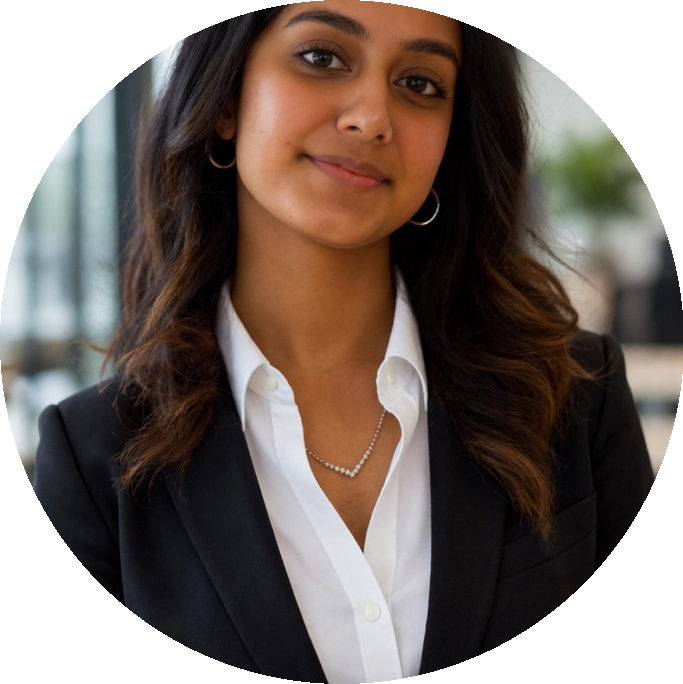
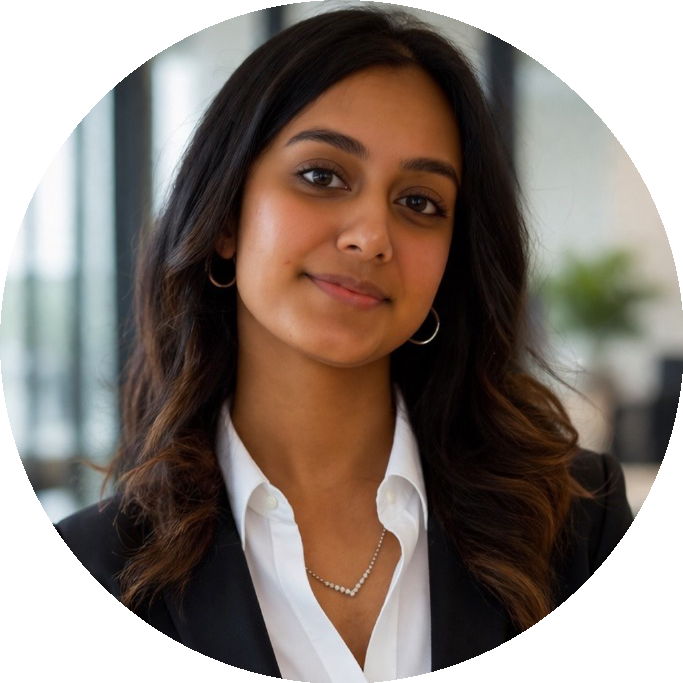
adjust profile photo crop

diff --git a/crop_image.py b/crop_image.py
@@ -9,9 +9,10 @@ def crop_to_circle(input_path, output_path):
     min_dim = min(width, height)
     
     left = (width - min_dim) / 2
-    top = (height - min_dim) / 2
-    right = (width + min_dim) / 2
-    bottom = (height + min_dim) / 2
+    # Shift the crop upwards to get more of the upper face
+    top = (height - min_dim) * 0.15
+    right = left + min_dim
+    bottom = top + min_dim
     
     img = img.crop((left, top, right, bottom))
     
